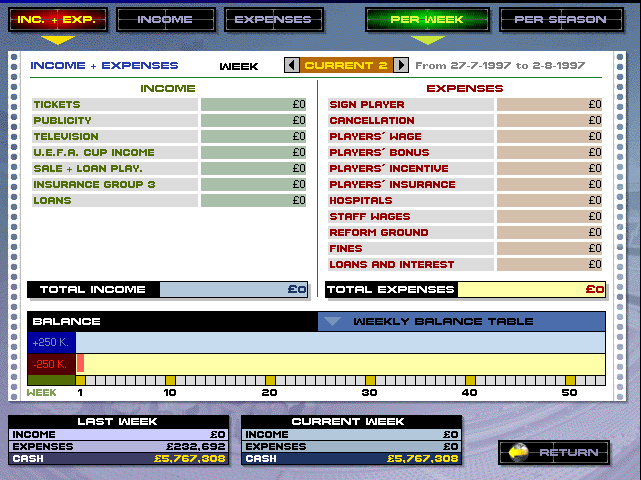
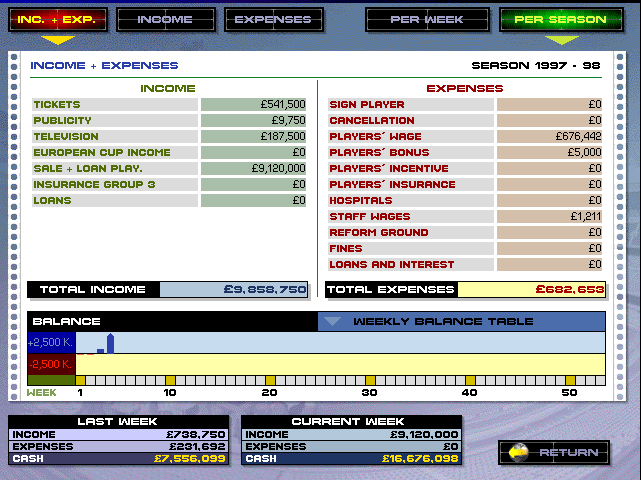
web: the FINANCES shot was the app, not the game; README brought up to date
The FINANCES tile in the gallery was s10_finance.png, which is a render of OUR
screen, not a capture of the original — every figure in it is £0 because it came
out of a fresh career in the port. finance_screen_re.md names the real binding
frames, so the tile is now walkthrough 013_164406, the genuine INC. + EXP. / PER
SEASON view with the original's own numbers on it (TICKETS 541,500, SALE
9,120,000, TOTAL INCOME 9,858,750).

GROUND moved with it, to walkthrough 172_154930 — the frame stadium_screen_re.md
calls "the real MANAGER.EXE GROUND overview". The old tile was a real capture too,
but of the MATCH DAY sub-screen, and the doc-named frame removes any doubt. The
other ten tiles were re-checked against their own RE docs and are all originals.

The README's Status and Coming next were five weeks stale and in two places wrong.
Corrected against the code rather than against the previous README:

* BRIEF was described as a feed of "goals, cards, saves, corners". The instant
  engine emits goal events only; match_flow_re.md is explicit that the shot / save
  / foul / booking lines are positional-engine output and are dropped at the
  consumer rather than fabricated. Said so.
* The 2D view was described as rendering on "a 3/4 broadcast pitch". That framing
  was retracted in match_view_re.md — the shipped view is side-on.
* "A couple of deep menus (team tactics, the transfer desk) are still a simpler
  functional UI" and "club crests and player photos are being wired in" both
[…]

diff --git a/web/index.html b/web/index.html
@@ -81,9 +81,9 @@
         <h3>Get the APK</h3>
         <p>One tap downloads the current build straight to your phone. Android only.
            You will need to allow "install from this source" when your phone asks.</p>
-        <a class="btn" id="dlbtn" href="https://github.com/Matswm86/pm98-android/releases/download/latest/pm98-2c8a179.apk">Download PM98 &nbsp;&darr;</a>
+        <a class="btn" id="dlbtn" href="https://github.com/Matswm86/pm98-android/releases/download/latest/pm98-9419ef4.apk">Download PM98 &nbsp;&darr;</a>
         <div class="dl-meta">
-          <div id="dlmeta">file &nbsp;pm98-2c8a179.apk &middot; 60.3 MB &middot; build 2c8a179 &middot; uploaded 26 Jul 2026</div>
+          <div id="dlmeta">file &nbsp;pm98-9419ef4.apk &middot; 60.3 MB &middot; build 9419ef4 &middot; uploaded 26 Jul 2026</div>
           <div><a href="https://github.com/Matswm86/pm98-android/releases/tag/latest">all builds</a> &middot; <a href="https://github.com/Matswm86/pm98-android">source</a></div>
         </div>
       </div>
@@ -136,10 +136,10 @@
         <figcaption>TRANSFER MARKET &mdash; the fee and wage columns.</figcaption></figure>
       <figure class="shot"><img src="img/scout.png" width="640" height="480" alt="The SCOUT screen with search criteria and the players-found panel">
         <figcaption>SCOUT &mdash; criteria, and the search running.</figcaption></figure>
-      <figure class="shot"><img src="img/finance.png" width="641" height="480" alt="The FINANCES ledger with the income and expenses columns and the weekly balance table">
-        <figcaption>FINANCES &mdash; the weekly ledger.</figcaption></figure>
-      <figure class="shot"><img src="img/ground.png" width="641" height="480" alt="The GROUND screen with ticket price, sponsor boards and the stadium picture">
-        <figcaption>GROUND &mdash; ticket price, boards, the stadium.</figcaption></figure>
+      <figure class="shot"><img src="img/finance.png" width="641" height="480" alt="The FINANCES ledger, per season, with the income and expenses columns filled in">
+        <figcaption>FINANCES &mdash; the season ledger.</figcaption></figure>
+      <figure class="shot"><img src="img/ground.png" width="641" height="480" alt="The GROUND screen with the work-in-progress panel, capacity, car park and the stadium picture">
+        <figcaption>GROUND &mdash; works, capacity, the stadium.</figcaption></figure>
       <figure class="shot"><img src="img/brief.png" width="641" height="480" alt="The BRIEF match read-out at kick off, Barcelona versus Manchester United">
         <figcaption>BRIEF &mdash; the running match read-out.</figcaption></figure>
       <figure class="shot"><img src="img/result.png" width="641" height="480" alt="The FULL TIME result read-out with goals, possession and man of the match">

diff --git a/README.md b/README.md
@@ -5,9 +5,12 @@
 An Android remake of **Premier Manager 98**, rebuilt from the original game's own
 data. Take over a club, build your squad, run the season.
 
-> **Early build, now playable.** Pick a club and play a career week-by-week with
-> save/load, line-up and tactics, and a transfer market, alongside the original
-> management screens rebuilt pixel-for-pixel from the game's own art.
+> **Playable.** Pick a club and run a career week by week — line-up and tactics,
+> the transfer market, the board, the money, both cups and Europe, with ten save
+> slots — across the original's own management screens, rebuilt pixel-for-pixel
+> from the game's own art and measured against photographs of the real thing.
+> The manager game is built; the match engine is the part still being finished
+> (see [Status](#status)).
 
 <sub>The menu above is a real capture from the running build: the original game's own front-door
 art and fonts, rebuilt pixel-for-pixel from the game's own resources (see the reverse-engineering
@@ -17,6 +20,8 @@ fan remake.</sub>
 ## Download
 
 📦 **[Download the latest APK](https://github.com/Matswm86/pm98-android/releases/download/latest/pm98-46655c7.apk)** — one tap downloads `pm98-46655c7.apk` (current build) straight to your phone.
+
+🌐 **[pm98.mwmai.no](https://pm98.mwmai.no)** — the project page: the same download (it resolves the newest build automatically), a gallery of the original 1998 screens, and a long write-up of what the game's own executable actually rewards, drawn straight out of `docs/re/`. Source for the page is in [`web/`](web/).
 
 > **This build (2026-07-26, latest)** is about two things the notes had given up on, and a cheat.
 >
@@ -187,15 +192,21 @@ prompted. Reinstalling over an older build? Uninstall the old one first.
   and the trophy.
 - **Watch a match:** the original's in-match **MATCH OPTIONS** view picker
   (WATCH / HIGHLIGHTS / BRIEF / RESULTS, at the exact button coordinates reversed
-  from the executable). **BRIEF** is a minute-by-minute commentary feed (goals,
-  cards, saves, corners) in the game's own English match text with real scorers;
-  **WATCH** is the **2D graphic simulador** — a side-on stadium built from the
-  game's own sprites (players, ball, the PREMIER MANAGER 98 / actua Sports boards,
-  crowd, grass and sky), animated over the very same match timeline so the two
-  views always agree on the scoreline. (HIGHLIGHTS' 3D engine is CD-only data
-  absent from the archive.)
-- **Club finances:** income and expenses over a 52-week season, structured on the
-  original game's finance ledger (tickets, TV, sponsors, wages).
+  from the executable). **BRIEF** is the minute-by-minute read-out with the engine's
+  own goals, scorers and minutes, and its own possession counters; **RESULTS** is the
+  same match jumped to full time. The shot / save / foul / booking lines come from
+  the positional engine, which the app does not yet play with, so BRIEF leaves them
+  out rather than inventing them. **WATCH** is the **2D simulador** — a side-on
+  stadium built from the game's own sprites (players, ball, the PREMIER MANAGER 98 /
+  actua Sports boards, crowd, grass and sky) over the same timeline, so the two views
+  always agree on the scoreline. HIGHLIGHTS' 3D models are absent from both the
+  archive and the CD image, so that button says so instead of faking it.
+- **Club finances:** the original's own 52-week ledger — tickets, TV, sponsors,
+  wages, transfers, loans and interest — plus the parts read byte-exact out of
+  `MANAGER.EXE`: the fee and wage lookup tables and the club-stature band that
+  indexes them, the insurance premiums and payout percentages, the injury bill,
+  and the ground-improvement cost function that prices all fifteen kinds of work
+  at every club.
 - **The original screens, rebuilt:** the Title / front-door menu, the Main Menu hub,
   League Tables, Line-Up, Squad, Finances, Transfer Market, the Board of Directors and
   the Stadium are reconstructed at the exact pixel coordinates reversed out of the
@@ -206,43 +217,72 @@ prompted. Reinstalling over an older build? Uninstall the old one first.
 ## Screenshots
 
 The career hub (the original Main Menu, running a season) and the LINE-UP screen with the
-squad, formation and pitch:
+squad, formation and pitch — both captured from the Android build:
 
 <p>
   <img src="screens/hub.png" alt="Career hub — the Main Menu running a season, with Results / League Tables / Fixtures / Line-up / Tactics / Opponent / Transfers / Finances" width="420"/>
   <img src="screens/lineup.png" alt="LINE-UP screen — the full squad with ratings, the chosen XI, the formation and the mini-pitch" width="420"/>
 </p>
 
-<sub>PREMIER MANAGER 98, the game this build rebuilds screen-for-screen from the original's
-own icons, fonts and backgrounds (the reverse-engineering notes are in `docs/re/`). Original
-game © Dinamic Multimedia / Gremlin; shown here for this non-commercial fan remake. On a phone
-each screen runs in landscape with a marble bezel in the side margins.</sub>
+<sub>PREMIER MANAGER 98, rebuilt screen-for-screen from the original's own icons, fonts and
+backgrounds (reverse-engineering notes in `docs/re/`). Original game © Dinamic Multimedia /
+Gremlin; shown here for this non-commercial fan remake. On a phone each screen runs in
+landscape with a marble bezel in the side margins. Captures of the *original 1998 PC game*,
+which is what these are measured against, are on the
+[project page](https://pm98.mwmai.no).</sub>
 
 ## Status
 
-This is an early build, but the whole front end is now PREMIER MANAGER 98, not a green
-placeholder UI: it opens on the original title screen, the career hub is the original
-Main Menu, and the database browse, the new-career club/league pickers and the
-2D match view all run in the game's own chrome (marble background, the BARRA bar, the
-PROMAN font), routing into the reversed Squad, League Tables and Finances screens. A
-couple of deep menus (team tactics, the transfer desk) are still a simpler functional UI.
+**The manager game is built.** Career, leagues, both domestic cups, Europe, transfers and
+counter-offers, contracts and renewals, finance, tactics, training, youth, backroom staff,
+scouting, insurance, injuries, the board, honours and the season-end sequence all run, and
+they run on rules read out of `MANAGER.EXE` rather than invented: the transfer fee and wage
+tables and the club-stature band that indexes them, the insurance economy, the injury model,
+the ground-improvement cost function, the morale and fitness mutators, the scout's shortlist
+cap, the sack schedule, and the instant-result match engine itself.
+
+The standard every screen has to clear is a **render diff at 0 differing pixels** against a
+photograph of the real game. Screen after screen clears it. Where a value genuinely cannot be
+reproduced, the screen is left blank and the gap is written down — the app does not fill a
+hole with a plausible number. There are **222 GDScript test suites** and 18 parity differs
+under `tools/re/`.
+
+**What is genuinely under-built is the match itself.** Two things, both named:
+
+1. **The byte-exact match engine is not the engine the app plays with.** The instruction-exact
+   port exists and is oracle-locked leaf by leaf against a Ghidra PCode emulator, and against
+   live captures of the real 1998 program under a debugger it is byte-exact over ticks 1-1032
+   — 319,335 words compared across eight recordings, zero mismatches. But tick 1032 is match
+   minute 3, about 7% of a half. Until it clears a full ninety it stays on the bench, and your
+   matches are played by a simpler engine tuned to realistic football aggregates rather than to
+   PM98's own output. Extending the verified window is a capture problem, not a research one:
+   roughly ninety minutes of wall clock per further minute of match.
+2. **The animated 2D match view is an approximation.** The faithful sprite render is specified
+   (`docs/re/jug_render_spec.md`) and deliberately deprioritised; the results/commentary
+   presentation is the one that is real and shipped.
+
+Everything else outstanding is in [`docs/REMAINING.md`](docs/REMAINING.md), which is kept
+honest rather than kept short. Per-screen truth is the `Status:` line at the top of each
+`docs/re/<screen>_re.md`.
 
 ## Coming next
 
-The stadium works/expansion sub-view and the full position model (injuries, suspensions,
-the club news feed, training/player development, the youth team, the backroom staff,
-player contracts and wages, European competitions and BOTH domestic cups — the F.A. Cup and
-the Coca-Cola Cup — are now in). The 2D
-match view now renders the original game's own sprites on a 3/4 broadcast pitch (the
-`.PGF` sprite format is fully cracked, see `docs/re/match_view_re.md`); next for it are
-the original scrolling tile-camera and per-team kit recolours. Club crests and player
-photos are decoded from the game files (the archive format is cracked, see
-`docs/re/pkf_format.md`) and are being wired in. The season simulation uses the
-original game's verified random-number generator and a per-shot model tuned to
-realistic football results.
+- **Wire the byte-exact engine in.** The one thing that raises the whole game's fidelity
+  ceiling, and the only item on the critical path.
+- **Build the European knockout screens.** Five layouts are now measured from a full season
+  recorded under Wine; nothing about them is unknown any more, they simply are not drawn yet.
+- **The MIXED PLAY variant of the three-forwards cheat**, blocked on locating the club tactic
+  byte — the TEAM TACTICS modal's geometry is measured, so the memory diff has a click target.
+- **Data completeness.** English-league squads are still sparse where the bio-interleaved
+  record format is not fully cracked, and roughly 876 directory-only teams use a separate
+  format that has not been decoded.
 
 ## Built with
 
-Godot 4 (GDScript); the APK is built in GitHub Actions. The `tools/` folder holds
-the Python that decodes the original game files into the database the app ships
-with, and `docs/` documents the file formats.
+Godot 4 (GDScript); the APK is built in GitHub Actions. `tools/re/` holds the Python
+that decodes the original game's archives, fonts and database, walks jump tables out
+of `MANAGER.EXE`, drives the real 1998 binary through a Ghidra PCode emulator to bank
+oracles, and render-diffs the app's screens against captured frames. `docs/re/` is the
+reverse-engineering record — one file per screen or subsystem, each with a `Status:`
+line that is the authority on whether that piece is faithful. `web/` is the project
+page at [pm98.mwmai.no](https://pm98.mwmai.no).
